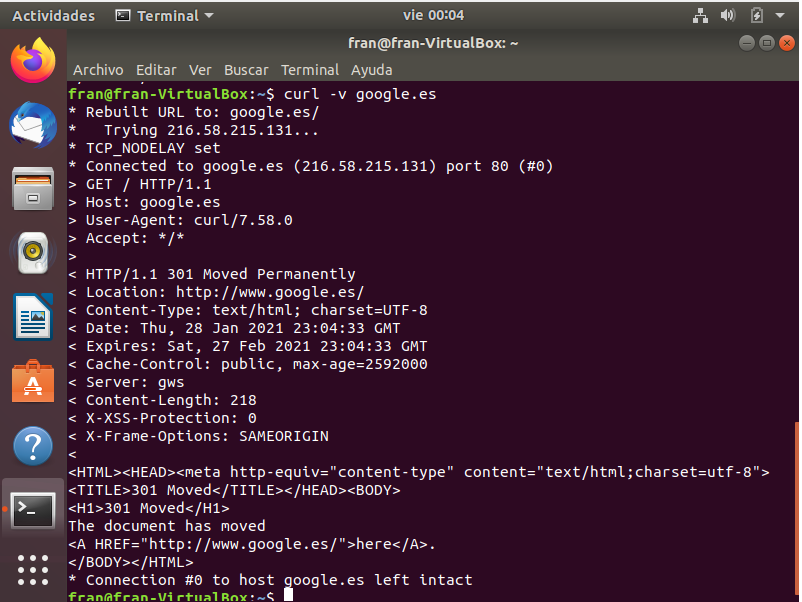
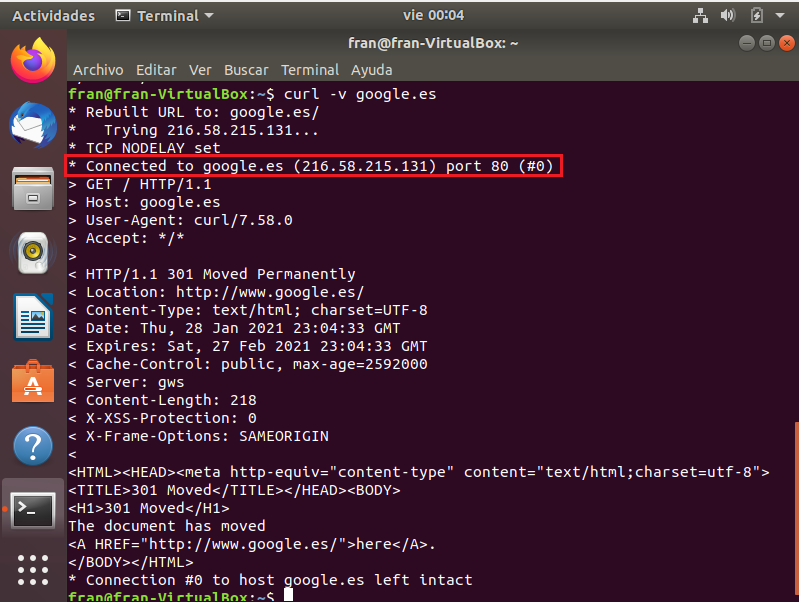
actualizacion

Changed region(s): [[0.0623, 0.2392, 0.717, 0.299]]

diff --git a/Actividad_01.md b/Actividad_01.md
@@ -77,5 +77,6 @@ Si probamos en Windows7 ambos comandos, sucede lo siguiente:
 
 **Nota Importante (Personal):** Tras horas de intentos y búsquedas, no he conseguido avanzar en éste comando. Creo que viene dado por mi sistema operativo y la versión del powerShell que por lo que he investigado, tiene que ser a partir de la versión 5. Por lo que opto finalmente ha realizar dicho comando mediante una máquina virtual de ubuntu.  
 
-**¿Cómo se usa?** Para utilizar el comando 
+**¿Cómo se usa?** Si usamos el comando "curl servidor" (suponiendo que el servidor que usamos sea el más conocido, google) sería "curl google.es" y **el su compartamiento de su salida** sería sacarnos sólo el "head" de la cabecera del html de google y sin embargo, si utilizamos la sentencia "curl -v google.es", el comportamiento de salida, sería la conexión con el servidor. Podemos ver que conecta por el puerto 80
+ 
 
